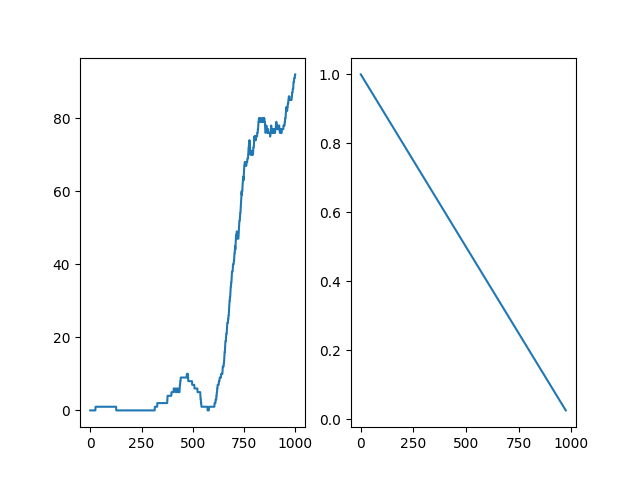
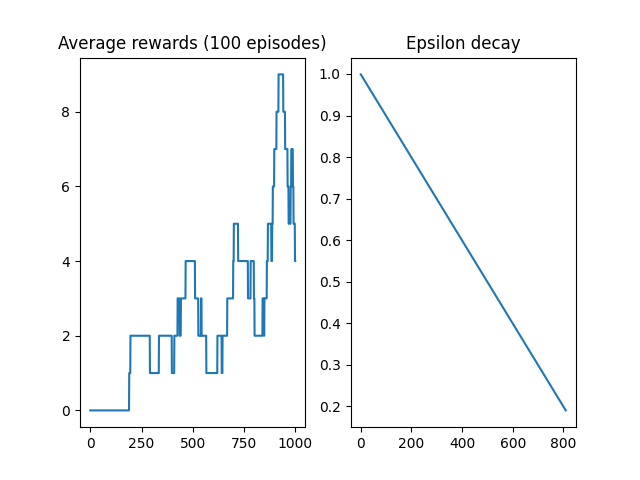
subplot titles

diff --git a/test.py b/test.py
@@ -53,7 +53,7 @@ class FrozenLakeDQL():
     ACTIONS = ['L','D','R','U']     # for printing 0,1,2,3 => L(eft),D(own),R(ight),U(p)
 
     # Train the FrozeLake environment
-    def train(self, episodes, render=False, is_slippery=True):
+    def train(self, episodes, render=False, is_slippery=False):
         # Create FrozenLake instance
         env = gym.make('FrozenLake-v1', map_name="4x4", is_slippery=is_slippery, render_mode='human' if render else None)
         num_states = env.observation_space.n
@@ -146,10 +146,12 @@ class FrozenLakeDQL():
             sum_rewards[x] = np.sum(rewards_per_episode[max(0, x-100):(x+1)])
         plt.subplot(121) # plot on a 1 row x 2 col grid, at cell 1
         plt.plot(sum_rewards)
+        plt.title('Average rewards (100 episodes)')
         
         # Plot epsilon decay (Y-axis) vs episodes (X-axis)
         plt.subplot(122) # plot on a 1 row x 2 col grid, at cell 2
         plt.plot(epsilon_history)
+        plt.title('Epsilon decay')
         
         # Save plots
         plt.savefig('frozen_lake_dql.png')
@@ -262,6 +264,6 @@ class FrozenLakeDQL():
 if __name__ == '__main__':
 
     frozen_lake = FrozenLakeDQL()
-    is_slippery = False
+    is_slippery = True
     frozen_lake.train(1000, is_slippery=is_slippery)
     frozen_lake.test(10, is_slippery=is_slippery)
